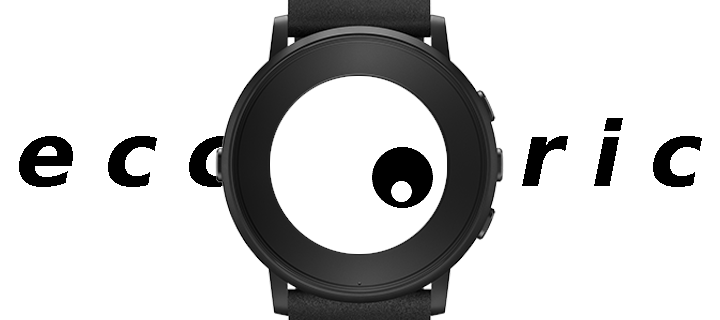
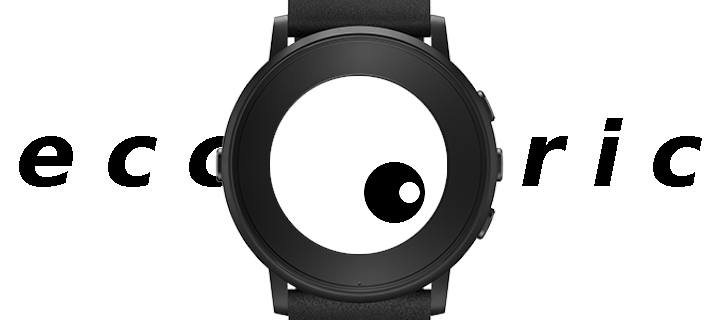
removed border, changed pathing for rectangular pebbles

Changed region(s): [[0.4889, 0.4375, 0.6111, 0.7188]]

diff --git a/src/c/eccentric.c b/src/c/eccentric.c
@@ -6,34 +6,49 @@ static uint32_t s_bg_color = 0xffffff;
 static uint32_t s_hour_color = 0x000000;
 static uint32_t s_min_color = 0xffffff;
 
+static int clamp(int val, int min_val, int max_val) {
+  if (val < min_val) {
+    return min_val;
+  }
+  if (val > max_val) {
+    return max_val;
+  }
+  return val;
+}
+
 static void canvas_update_proc(Layer *layer, GContext *ctx) {
+  GRect layer_bounds = layer_get_bounds(layer);
   time_t unadjusted_time = time(NULL);
   struct tm *cur_time = localtime(&unadjusted_time);
   uint8_t hour = cur_time->tm_hour % 12;
   uint8_t min = cur_time->tm_min;
-  // uint8_t hour = s_hour;
-  // uint8_t min = s_min;
-  APP_LOG(APP_LOG_LEVEL_DEBUG, "Time is %d:%d", hour, min);
 
-  GPoint center = GPoint(PBL_DISPLAY_WIDTH / 2, PBL_DISPLAY_HEIGHT / 2);
+  GPoint center = GPoint(layer_bounds.size.w / 2, layer_bounds.size.h / 2);
   graphics_context_set_stroke_width(ctx, 0);
 #if defined(PBL_RECT)
-  graphics_context_set_fill_color(ctx, GColorLightGray);
-  graphics_fill_rect(ctx, layer_get_bounds(layer), 0, GCornerNone);
+  graphics_context_set_fill_color(ctx, GColorWhite);
+  graphics_fill_rect(ctx, layer_bounds, 0, GCornerNone);
   graphics_context_set_fill_color(ctx, GColorFromHEX(s_bg_color));
-  graphics_fill_circle(ctx, center, PBL_DISPLAY_WIDTH / 2 - 1);
+  graphics_fill_circle(ctx, center, layer_bounds.size.w / 2 - 1);
 #else
   graphics_context_set_fill_color(ctx, GColorFromHEX(s_bg_color));
-  graphics_fill_rect(ctx, layer_get_bounds(layer), 0, GCornerNone);
+  graphics_fill_rect(ctx, layer_bounds, 0, GCornerNone);
 #endif
 
   int32_t hour_angle = TRIG_MAX_ANGLE * hour / 12 + TRIG_MAX_ANGLE / 12 * min / 60;
-  int32_t hour_hand_length = PBL_DISPLAY_WIDTH / 4; //PBL_IF_ROUND_ELSE(180, 144) / 4;
+  int32_t hour_hand_length = PBL_IF_ROUND_ELSE(layer_bounds.size.w / 4, layer_bounds.size.h / 4);
   GPoint hour_center = center;
   GPoint hour_hand;
   hour_hand.y = (-cos_lookup(hour_angle) * hour_hand_length / TRIG_MAX_RATIO) + hour_center.y;
   hour_hand.x = (sin_lookup(hour_angle) * hour_hand_length / TRIG_MAX_RATIO) + hour_center.x;
-  APP_LOG(APP_LOG_LEVEL_DEBUG, "Drawing hour at %d, %d", hour_hand.x, hour_hand.y);
+#if defined(PBL_RECT)
+  int min_x = center.x - layer_bounds.size.w / 4;
+  int max_x = center.x + layer_bounds.size.w / 4;
+  int min_y = center.y - layer_bounds.size.h / 4;
+  int max_y = center.y + layer_bounds.size.h / 4;
+  hour_hand.y = clamp(hour_hand.y, min_y, max_y);
+  hour_hand.x = clamp(hour_hand.x, min_x, max_x);
+#endif
   uint16_t hour_radius = hour_hand_length * 2 / 3;
   graphics_context_set_fill_color(ctx, GColorFromHEX(s_hour_color));
   graphics_fill_circle(ctx, hour_hand, hour_radius);
@@ -44,7 +59,6 @@ static void canvas_update_proc(Layer *layer, GContext *ctx) {
   GPoint min_hand;
   min_hand.y = (-cos_lookup(min_angle) * min_hand_length / TRIG_MAX_RATIO) + min_center.y;
   min_hand.x = (sin_lookup(min_angle) * min_hand_length / TRIG_MAX_RATIO) + min_center.x;
-  APP_LOG(APP_LOG_LEVEL_DEBUG, "Drawing min at %d, %d", min_hand.x, min_hand.y);
   uint16_t min_radius = hour_radius / 3;
   graphics_context_set_fill_color(ctx, GColorFromHEX(s_min_color));
   graphics_fill_circle(ctx, min_hand, min_radius);
@@ -53,16 +67,6 @@ static void canvas_update_proc(Layer *layer, GContext *ctx) {
 static void time_handler(struct tm *tick_time, TimeUnits units_changed) {
   layer_mark_dirty(s_canvas_layer);
 }
-
-// static void timer_handle(void* context) {
-//   s_min++;
-//   if (s_min == 60) {
-//     s_min = 0;
-//     s_hour = (s_hour + 1) % 12;
-//   }
-//   layer_mark_dirty(s_canvas_layer);
-//   app_timer_register(15, timer_handle, NULL);
-// }
 
 static void window_load(Window *window) {
   Layer *window_layer = window_get_root_layer(window);
